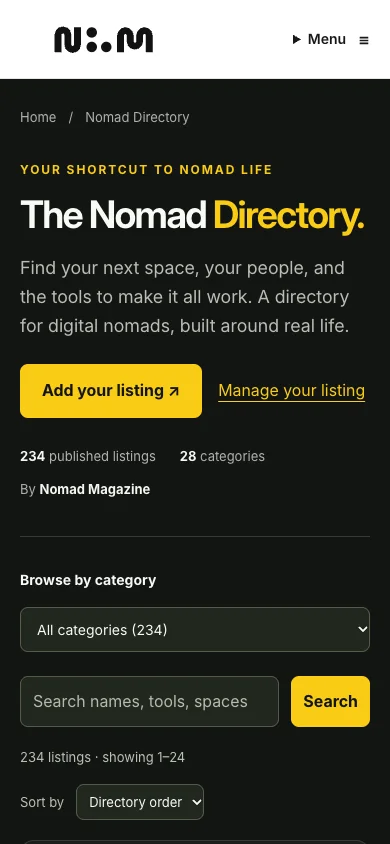
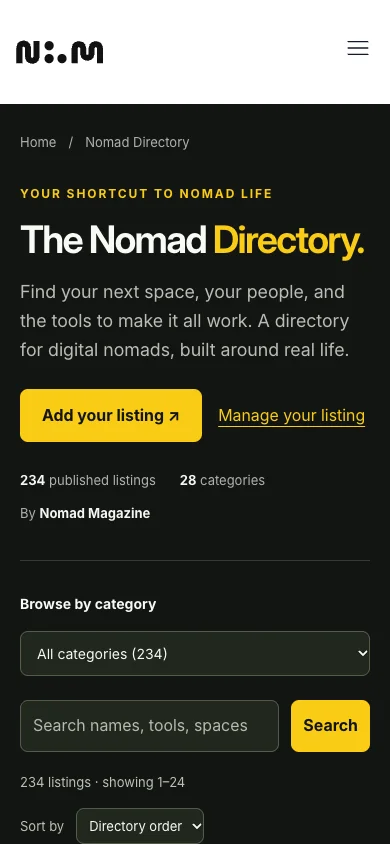
Restore original header design with directory-first priorities

diff --git a/docs/directory-growth-proposal.md b/docs/directory-growth-proposal.md
@@ -8,7 +8,7 @@ The directory ships all published listings in its initial HTML, with complete de
 
 CollectionPage, ItemList and breadcrumb structured data describe the visible content. Title and description target digital nomad resources rather than business intelligence. Local 112px WebP logos replace externally hosted originals; missing logos fall back to initials. No new client framework or runtime dependency is added. After refreshing the source snapshot, run `node scripts/cache-directory-logos.mjs` to download missing local logos and refresh their manifest; use `--refresh` when existing logos have changed. New listings otherwise safely use initials.
 
-The navigation uses a native disclosure on mobile, supports Escape and keyboard focus, and exposes Directory before the magazine archive. Search has a visible result count announced to assistive technology, category selection exposes its state, pagination moves focus to results, and the directory has a single main landmark.
+The navigation preserves the original header layout, logo sizing, typography, spacing, dropdown styling, two-button layout and full-screen mobile menu. Directory takes the first dropdown and yellow primary button; Magazine archive takes the outlined secondary button. The existing menu supports keyboard focus, Escape and a mobile focus trap. Search has a visible result count announced to assistive technology, category selection exposes its state, pagination moves focus to results, and the directory has a single main landmark.
 
 ## Accounts: build on what exists
 
